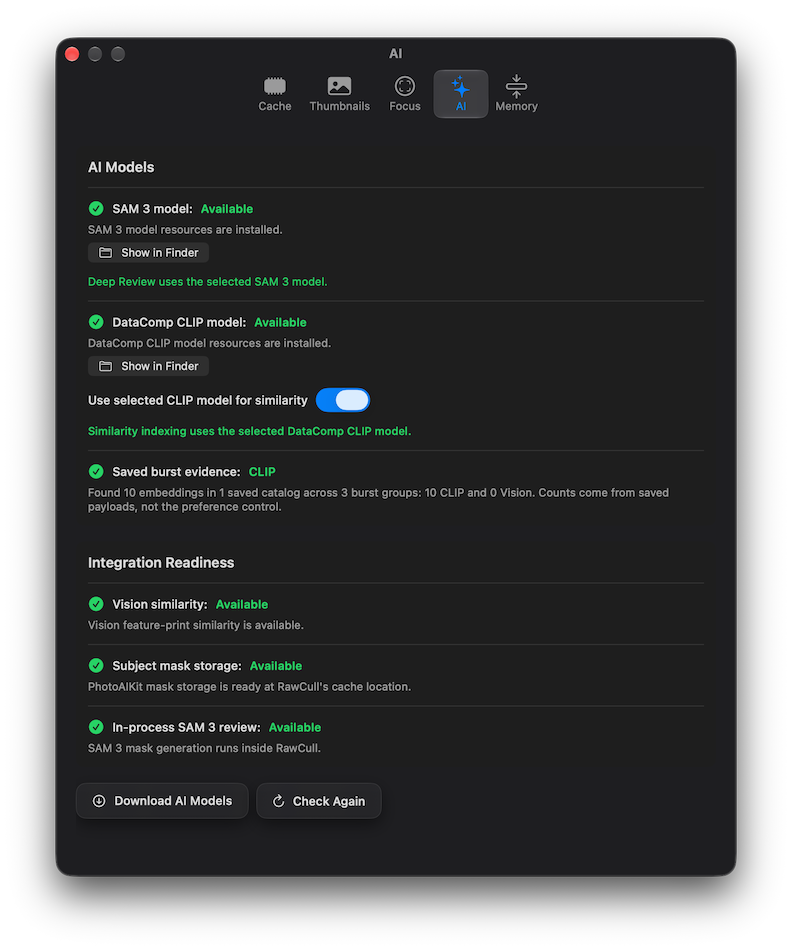
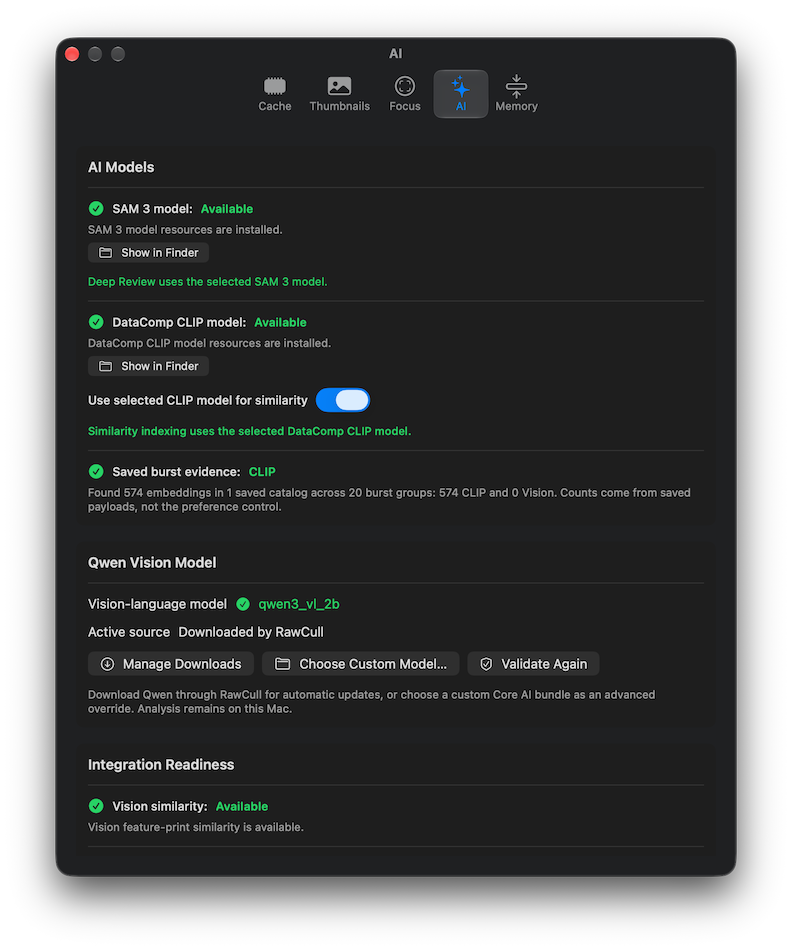
AI

Changed region(s): [[0.0909, 0.58, 0.8182, 0.8853], [0.303, 0.4884, 0.8485, 0.5495], [0.1515, 0.4884, 0.2727, 0.5495]]

diff --git a/content/en/docs/screenshots/samplescreenshots.md b/content/en/docs/screenshots/samplescreenshots.md
@@ -36,6 +36,15 @@ can open a burst, run a deeper review, mark it complete, or defer the decision.
 
 {{< figure src="/images/burslists.png" alt="Burst list with grouped puffin sequences and a suggested pick" position="center" style="border-radius: 8px;" >}}
 
+## Focus Point and Focus Mask
+
+In the full-window viewer, the Focus Point marks the autofocus location recorded
+by the camera, while the Focus Mask highlights areas with strong edge detail.
+Use the overlays together to check whether focus landed on the intended part of
+the subject; they are guides rather than a guarantee of sharpness.
+
+{{< figure src="/images/focusandmask.png" alt="Full-window puffin preview with the camera autofocus point and focus-mask detail overlays visible" position="center" style="border-radius: 8px;" >}}
+
 ## Burst Review
 
 The burst reviewer places every frame in a filmstrip beneath a large preview.
@@ -44,20 +53,35 @@ moment, rate it, or reject it.
 
 {{< figure src="/images/burstreview.png" alt="Burst reviewer comparing a puffin sequence with a large preview, filmstrip, and scoring details" position="center" style="border-radius: 8px;" >}}
 
+## AI Analysis
+
+AI Analysis works with photographs selected in Grid View or tagged for review.
+Choose **SAM 3 + CLIP** for a subject-aware Deep Review or **Qwen** for a
+criteria-based assessment. Both modes run locally on the Mac.
+
+### SAM 3 + CLIP
+
+Deep Review isolates the subject and combines subject-aware detail, sharpness,
+autofocus, and coverage evidence to recommend a frame. Review the ranked results
+and subject outline before marking the winner.
+
+{{< figure src="/images/deepreview.png" alt="AI Analysis using SAM 3 and CLIP to rank selected photographs and outline the subject in the preview" position="center" style="border-radius: 8px;" >}}
+
+### Qwen
+
+Qwen evaluates the photographs against editable criteria and returns structured
+scores for composition, exposure, and subject visibility. Select a result to
+inspect its subject description, confidence, strengths, and possible problems.
+The assessment is advisory, so confirm its findings against the photograph.
+
+{{< figure src="/images/qwen.png" alt="AI Analysis using Qwen to score selected photographs and show strengths, problems, and confidence for one result" position="center" style="border-radius: 8px;" >}}
+
 ## Semantic Search
 
 Describe what you want to find in everyday language. RawCull ranks the locally
 indexed catalog by meaning, as shown here for the search `puffins in flight`.
 
 {{< figure src="/images/puffinsinflight.png" alt="Semantic search results ranked for the phrase puffins in flight" position="center" style="border-radius: 8px;" >}}
-
-## Deep Review
-
-SAM 3 isolates the subject during Deep Review so RawCull can combine
-subject-aware sharpness with focus and camera metadata. The resulting scores
-support the comparison; you still make the final selection.
-
-{{< figure src="/images/deepreview.png" alt="SAM 3 Deep Review comparing burst frames with subject-aware scores" position="center" style="border-radius: 8px;" >}}
 
 ## AI Settings
 
